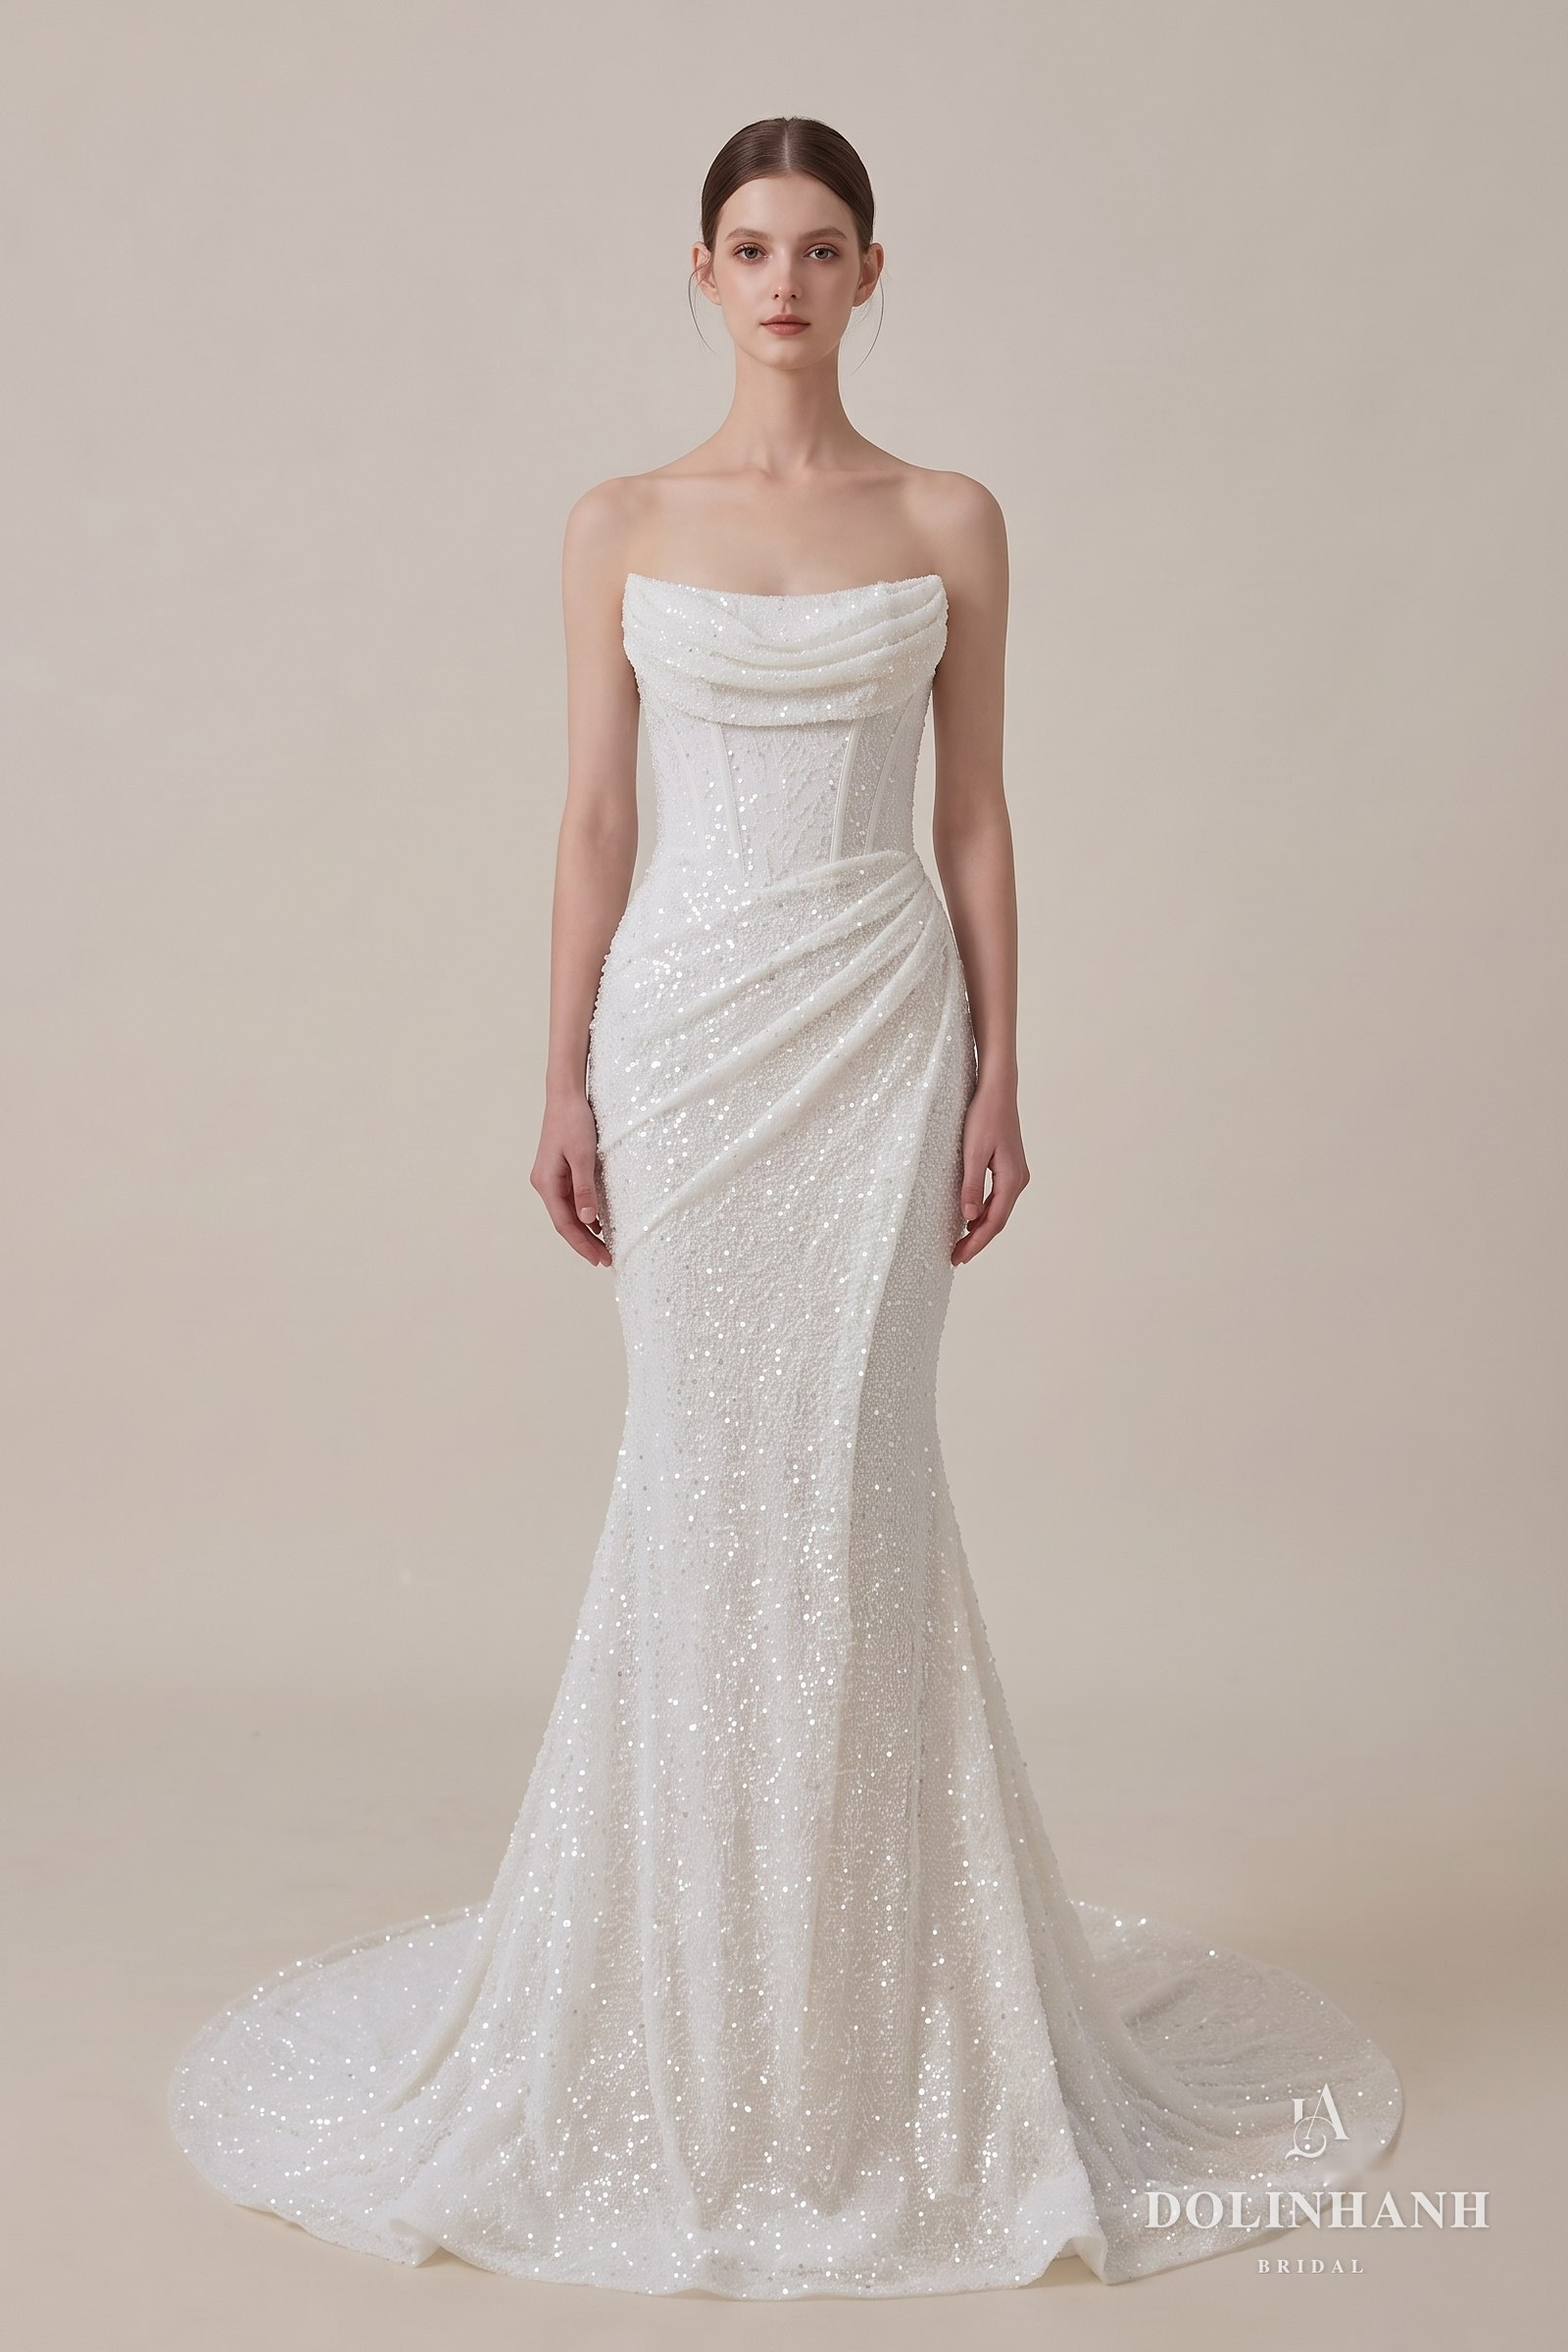
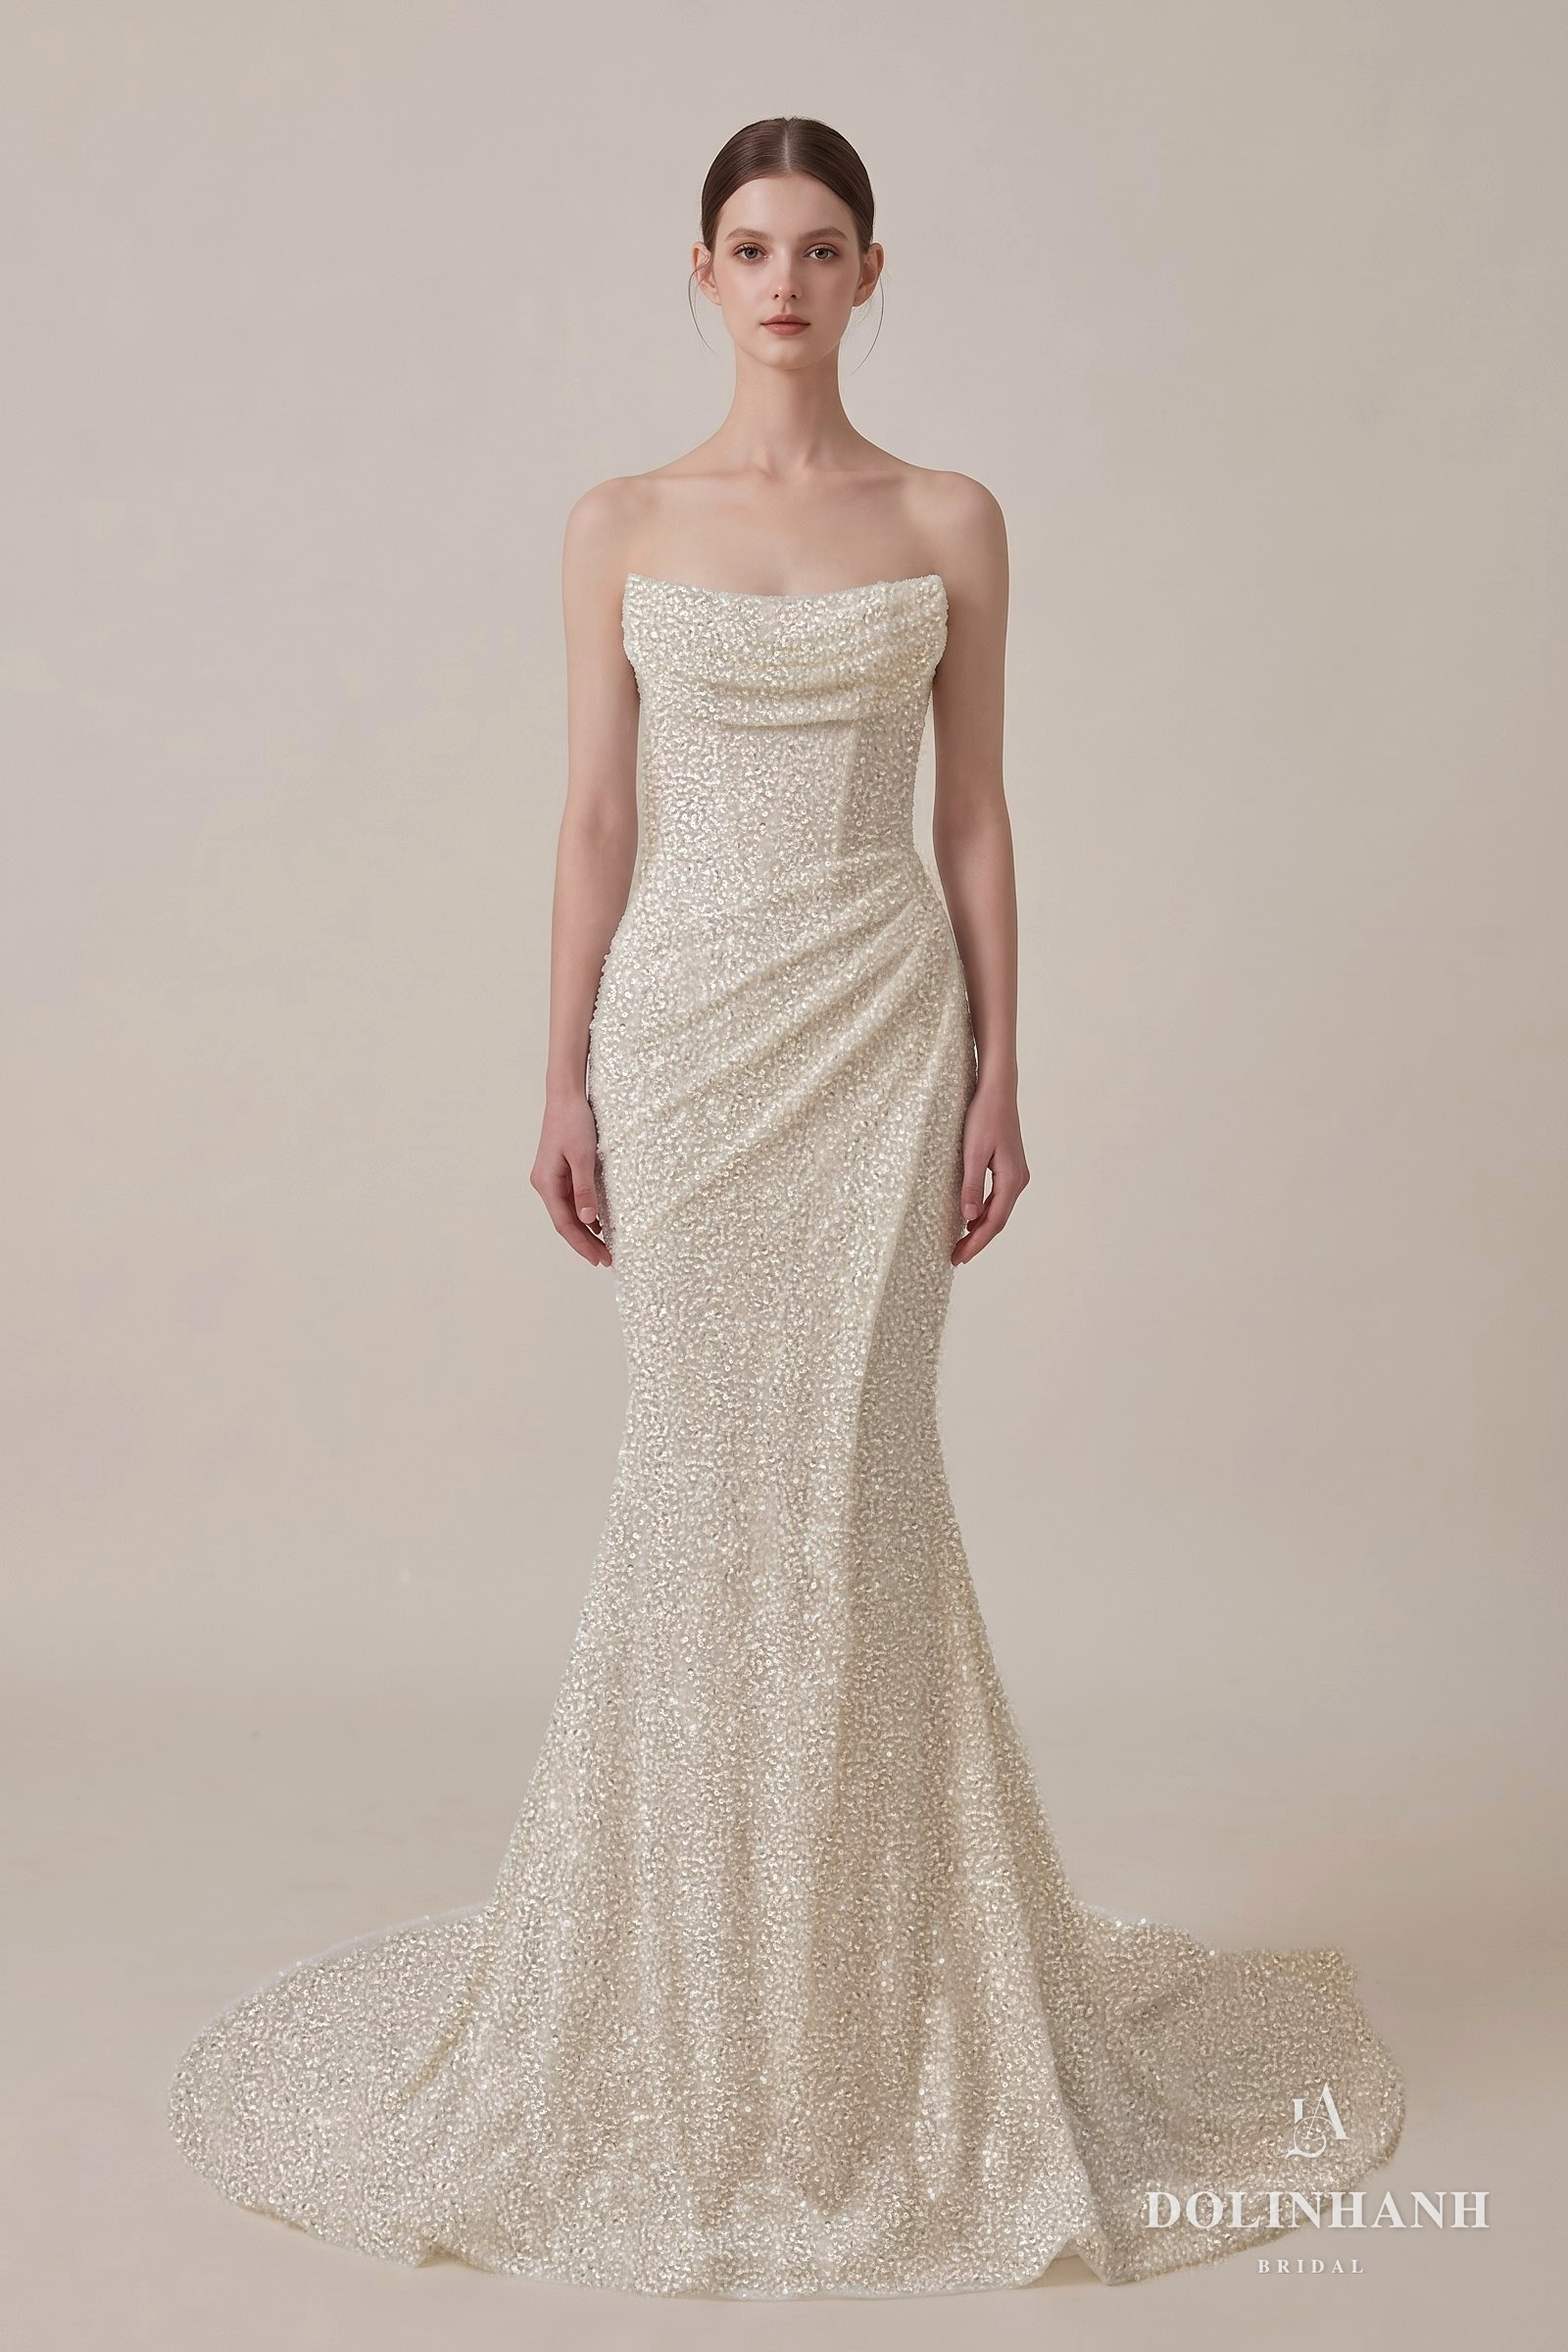
V141: MS 418 màu champagne + vải kim sa; MS 431 cổ tròn, eo xếp ly, váy xòe to (chị Linh duyệt 18/10)

Changed region(s): [[0.0938, 0.25, 0.9062, 1.0]]

diff --git a/bo-suu-tap.html b/bo-suu-tap.html
@@ -2863,7 +2863,7 @@ src="https://www.facebook.com/tr?id=1358640082651240&ev=PageView&noscript=1"
         </figure>
         <figure data-dang="mermaid" data-mood="timeless" data-coso="hcm">
           <div class="sl-khung">
-            <div class="sl" data-img="anh/vay/ms418/01.jpg?v=1"></div>
+            <div class="sl" data-img="anh/vay/ms418/01.jpg?v=2"></div>
           </div>
           <figcaption><span class="kind" data-en="Dolinhanh Bridal" data-zh="Dolinhanh Bridal">Dolinhanh Bridal</span><span class="nm">MS 418</span><span class="de" data-en="Sequin cowl-neck mermaid" data-zh="亮片荡领鱼尾婚纱">Cổ đổ kim sa, đuôi cá</span><span class="gia">US$1,280</span></figcaption>
         </figure>
@@ -2939,11 +2939,11 @@ src="https://www.facebook.com/tr?id=1358640082651240&ev=PageView&noscript=1"
           </div>
           <figcaption><span class="kind" data-en="Dolinhanh Bridal" data-zh="Dolinhanh Bridal">Dolinhanh Bridal</span><span class="nm">MS 430</span><span class="de" data-en="High neck sheer bishop sleeves" data-zh="高领透纱主教袖婚纱">Cổ cao tay voan bồng</span><span class="gia">US$1,680</span></figcaption>
         </figure>
-        <figure data-kin="1" data-dang="a-line" data-mood="timeless" data-coso="hcm">
+        <figure data-kin="1" data-dang="ballgown" data-mood="timeless" data-coso="hcm">
           <div class="sl-khung">
-            <div class="sl" data-img="anh/vay/ms431/01.jpg?v=2"></div>
+            <div class="sl" data-img="anh/vay/ms431/01.jpg?v=3"></div>
           </div>
-          <figcaption><span class="kind" data-en="Dolinhanh Bridal" data-zh="Dolinhanh Bridal">Dolinhanh Bridal</span><span class="nm">MS 431</span><span class="de" data-en="High neck lace sleeves A-line" data-zh="高领蕾丝袖A字型婚纱">Cổ cao tay dài ren, xoè</span><span class="gia">US$2,080</span></figcaption>
+          <figcaption><span class="kind" data-en="Dolinhanh Bridal" data-zh="Dolinhanh Bridal">Dolinhanh Bridal</span><span class="nm">MS 431</span><span class="de" data-en="High neck lace sleeves ballgown" data-zh="高领蕾丝袖蓬蓬裙婚纱">Cổ cao tay dài ren, xoè</span><span class="gia">US$2,080</span></figcaption>
         </figure>
         <figure data-kin="1" data-dang="a-line" data-mood="timeless" data-coso="hcm">
           <div class="sl-khung">
